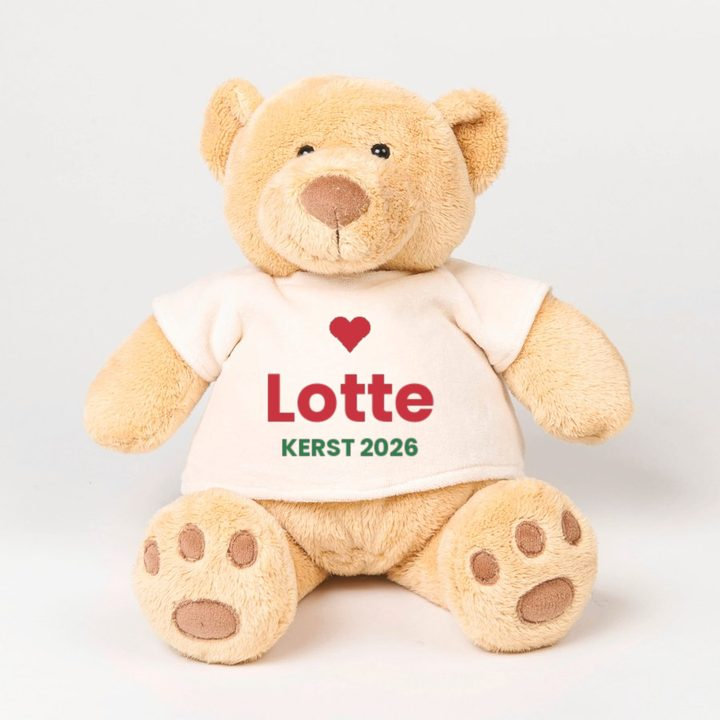
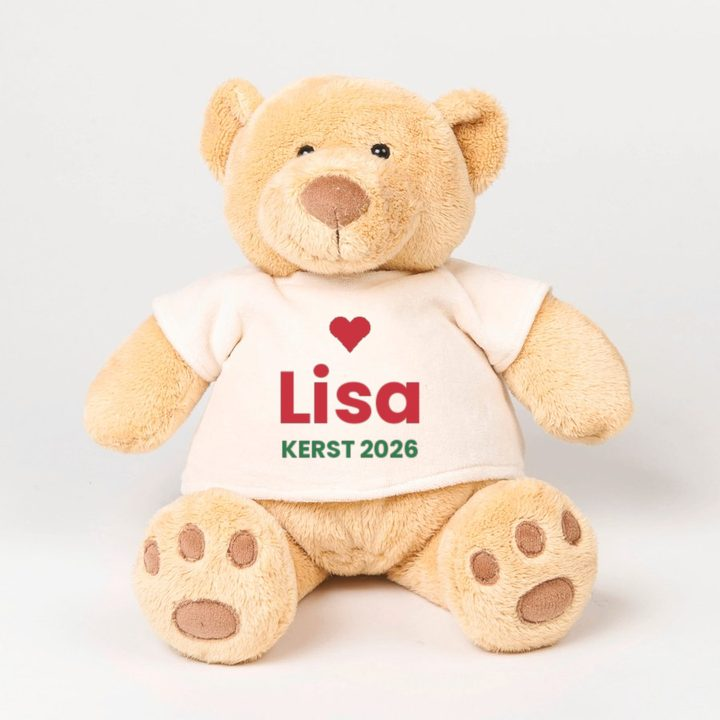
Verzenddeadline (bestel vóór 8/12, verzonden ten laatste 10/12) en beer met 'Lisa'
Claude-Session: https://claude.ai/code/session_01FVjbuViTw3veqwqudahqj7

Changed region(s): [[0.3667, 0.4889, 0.6111, 0.6417]]

diff --git a/shop.html b/shop.html
@@ -49,7 +49,7 @@
           <span class="cart-total-label">Totaal</span>
           <span class="cart-total-amount" id="cartTotal">€ 0</span>
         </div>
-        <p class="cart-note">🎄 Gratis afhalen op de kerstmarkt van Landen of verzending (€ 7) — je kiest bij het afrekenen.</p>
+        <p class="cart-note">🎄 Gratis afhalen op de kerstmarkt van Landen of verzending (€ 7). Verzenden: bestel vóór 8 december.</p>
         <button class="btn-checkout" id="checkoutBtn" disabled>Afrekenen →</button>
       </div>
     </div>
@@ -67,7 +67,7 @@
       <div>
         <p class="section-label" style="color:#ffd970">Kerstmarkt Landen</p>
         <h2>Bestel nu, haal af in onze chalet</h2>
-        <p>Bestel je kerstshirt of cadeau online en haal het gratis af op de kerstmarkt van Landen. Of laat het verzenden in heel België.</p>
+        <p>Bestel je kerstshirt of cadeau online en haal het gratis af op de kerstmarkt van Landen. Of laat het verzenden in heel België: bestel vóór 8 december, dan verzenden we ten laatste op 10 december.</p>
         <div class="pill-row">
           <span class="pill">🎁 Gratis afhalen</span>
           <span class="pill">✏ Naam erop mogelijk</span>
@@ -101,7 +101,7 @@
         <div id="pdetailOptions"></div>
         <p class="pdetail-hint" id="pdetailHint"></p>
         <button class="pdetail-btn" id="pdetailAddBtn">In winkelwagen</button>
-        <p class="pdetail-pickup" id="pdetailPickup" hidden>🎄 <strong>Gratis afhalen</strong> op de kerstmarkt van Landen (11–13 december) of verzending in België voor € 7.</p>
+        <p class="pdetail-pickup" id="pdetailPickup" hidden>🎄 <strong>Gratis afhalen</strong> op de kerstmarkt van Landen (11–13 december) of verzending in België voor € 7. Bestel vóór 8 december, dan verzenden we je bestelling ten laatste op 10 december.</p>
       </div>
     </div>
   </div>
@@ -267,7 +267,7 @@
         if (p.personalize) {
           const extra = Number(p.personalize.price) ? ` (+ ${euro(p.personalize.price)})` : '';
           opts.push(`<div><p class="opt-label">${esc(p.personalize.label)}${extra} <span>— optioneel</span></p>
-            <input class="pdetail-input" id="pdName" maxlength="${p.personalize.maxLength || 14}" placeholder="Bv. Lotte" value="${esc(sel.personalName)}"></div>`);
+            <input class="pdetail-input" id="pdName" maxlength="${p.personalize.maxLength || 14}" placeholder="Bv. Lisa" value="${esc(sel.personalName)}"></div>`);
         }
         const box = document.getElementById('pdetailOptions');
         box.style.cssText = 'display:flex;flex-direction:column;gap:1rem';

diff --git a/kerstmarkt.html b/kerstmarkt.html
@@ -49,7 +49,7 @@
           <span class="cart-total-label">Totaal</span>
           <span class="cart-total-amount" id="cartTotal">€ 0</span>
         </div>
-        <p class="cart-note">🎄 Gratis afhalen op de kerstmarkt van Landen of verzending (€ 7) — je kiest bij het afrekenen.</p>
+        <p class="cart-note">🎄 Gratis afhalen op de kerstmarkt van Landen of verzending (€ 7). Verzenden: bestel vóór 8 december.</p>
         <button class="btn-checkout" id="checkoutBtn" disabled>Afrekenen →</button>
       </div>
     </div>
@@ -141,7 +141,7 @@
       <div class="faq-item"><button class="faq-q">Wanneer kan ik mijn bestelling afhalen?</button><div class="faq-a">Op 11, 12 en 13 december tijdens de openingsuren van de kerstmarkt van Landen. We sturen je een mail zodra je bestelling klaarligt.</div></div>
       <div class="faq-item"><button class="faq-q">Kan ik ook gewoon ter plaatse kopen?</button><div class="faq-a">Zeker! In de chalet betaal je met Bancontact, kaart of cash. Wil je zeker zijn van je maat en kleur, bestel dan vooraf.</div></div>
       <div class="faq-item"><button class="faq-q">Kan ik er een naam op laten zetten?</button><div class="faq-a">Ja, voor € 5 extra drukken we een naam op je shirt, hoodie, trui of schort. Op het shirtje van de beer is de naam inbegrepen.</div></div>
-      <div class="faq-item"><button class="faq-q">Ik kan niet naar de kerstmarkt komen. Wat nu?</button><div class="faq-a">Kies bij het afrekenen voor verzending: we sturen je bestelling op in heel België voor € 7.</div></div>
+      <div class="faq-item"><button class="faq-q">Ik kan niet naar de kerstmarkt komen. Wat nu?</button><div class="faq-a">Kies bij het afrekenen voor verzending: we sturen je bestelling op in heel België voor € 7. Bestel vóór 8 december, dan verzenden we je bestelling ten laatste op 10 december.</div></div>
       <div class="faq-item"><button class="faq-q">Welke maat moet ik nemen?</button><div class="faq-a">Onze T-shirts, hoodies en truien hebben een normale pasvorm. Twijfel je, neem dan een maat groter. Ter plaatse kan je passen.</div></div>
     </div>
   </section>

diff --git a/index.html b/index.html
@@ -49,7 +49,7 @@
           <span class="cart-total-label">Totaal</span>
           <span class="cart-total-amount" id="cartTotal">€ 0</span>
         </div>
-        <p class="cart-note">🎄 Gratis afhalen op de kerstmarkt van Landen of verzending (€ 7) — je kiest bij het afrekenen.</p>
+        <p class="cart-note">🎄 Gratis afhalen op de kerstmarkt van Landen of verzending (€ 7). Verzenden: bestel vóór 8 december.</p>
         <button class="btn-checkout" id="checkoutBtn" disabled>Afrekenen →</button>
       </div>
     </div>
@@ -140,7 +140,7 @@
     <div style="max-width:760px;margin:0 auto">
       <p class="section-label">Veelgestelde vragen</p>
       <h2 class="section-title">Goed om te <em>weten</em></h2>
-      <div class="faq-item"><button class="faq-q">Kan ik afhalen of laten verzenden?</button><div class="faq-a">Allebei. Tijdens de kerstmarkt van Landen (11–13 december) haal je gratis af in onze chalet. Verzending in België kost € 7. Je kiest bij het afrekenen.</div></div>
+      <div class="faq-item"><button class="faq-q">Kan ik afhalen of laten verzenden?</button><div class="faq-a">Allebei. Tijdens de kerstmarkt van Landen (11–13 december) haal je gratis af in onze chalet. Verzending in België kost € 7: bestel vóór 8 december, dan verzenden we je bestelling ten laatste op 10 december. Je kiest bij het afrekenen.</div></div>
       <div class="faq-item"><button class="faq-q">Hoe betaal ik?</button><div class="faq-a">Veilig online via Stripe, met Bancontact of kaart.</div></div>
       <div class="faq-item"><button class="faq-q">Kan ik er een naam op laten zetten?</button><div class="faq-a">Ja. Bij de kerstcollectie kies je “Naam erop” voor € 5 extra.</div></div>
       <div class="faq-item"><button class="faq-q">Klopt de maatvoering?</button><div class="faq-a">We werken met standaard Europese maten in een normale pasvorm. Bij twijfel neem je best een maat groter.</div></div>

diff --git a/voorwaarden.html b/voorwaarden.html
@@ -49,7 +49,7 @@
           <span class="cart-total-label">Totaal</span>
           <span class="cart-total-amount" id="cartTotal">€ 0</span>
         </div>
-        <p class="cart-note">🎄 Gratis afhalen op de kerstmarkt van Landen of verzending (€ 7) — je kiest bij het afrekenen.</p>
+        <p class="cart-note">🎄 Gratis afhalen op de kerstmarkt van Landen of verzending (€ 7). Verzenden: bestel vóór 8 december.</p>
         <button class="btn-checkout" id="checkoutBtn" disabled>Afrekenen →</button>
       </div>
     </div>
@@ -167,7 +167,7 @@
     <ul>
       <li>We verzenden alleen naar adressen in België.</li>
       <li>We drukken je bestelling na ontvangst van de betaling. Gewoonlijk vertrekt je pakje binnen 3 tot 5 werkdagen; bij drukte (zoals in december) kan dat langer duren. We laten je weten als het langer duurt dan verwacht. De uiterste leveringstermijn is 30 dagen na je bestelling.</li>
-      <li>Wil je je bestelling vóór Kerstmis? Bestel dan best vóór 17 december. We doen ons best, maar kunnen een levering vóór een bepaalde datum alleen garanderen als we dat uitdrukkelijk bevestigd hebben.</li>
+      <li><strong>Kerstperiode 2026:</strong> bestel je met verzending vóór 8 december, dan verzenden we je bestelling ten laatste op 10 december. Voor bestellingen na 8 december kunnen we een levering vóór Kerstmis niet garanderen.</li>
       <li>Het risico op verlies of beschadiging gaat op jou over op het moment dat jij (of iemand die jij aanwijst) het pakje ontvangt.</li>
       <li>Controleer je pakje bij ontvangst. Is het beschadigd of klopt de inhoud niet? Meld het ons zo snel mogelijk, liefst binnen 7 dagen, met foto's. Zo kunnen we het snel oplossen.</li>
       <li>Komt een pakje bij ons terug omdat het adres fout was of het niet werd afgehaald, dan nemen we contact op. Een nieuwe verzending kan dan opnieuw verzendkosten kosten.</li>

diff --git a/checkout.html b/checkout.html
@@ -49,7 +49,7 @@
           <span class="cart-total-label">Totaal</span>
           <span class="cart-total-amount" id="cartTotal">€ 0</span>
         </div>
-        <p class="cart-note">🎄 Gratis afhalen op de kerstmarkt van Landen of verzending (€ 7) — je kiest bij het afrekenen.</p>
+        <p class="cart-note">🎄 Gratis afhalen op de kerstmarkt van Landen of verzending (€ 7). Verzenden: bestel vóór 8 december.</p>
         <button class="btn-checkout" id="checkoutBtn" disabled>Afrekenen →</button>
       </div>
     </div>
@@ -130,7 +130,7 @@
           <input type="radio" name="levering" value="verzending" />
           <div class="co-option-body">
             <div class="co-option-title">Verzending in België <b>€ 7</b></div>
-            <div class="co-option-sub">We maken je bestelling en sturen ze op met de post.</div>
+            <div class="co-option-sub">We maken je bestelling en sturen ze op met de post. <strong style="color:var(--white)">Bestel vóór 8 december, dan verzenden we je bestelling ten laatste op 10 december.</strong></div>
           </div>
         </label>
       </div>

diff --git a/account.html b/account.html
@@ -178,7 +178,7 @@
           <span class="cart-total-label">Subtotaal</span>
           <span class="cart-total-amount" id="cartTotal">€ 0</span>
         </div>
-        <p class="cart-note">🎄 Gratis afhalen op de kerstmarkt van Landen of verzending (€ 7) — je kiest bij het afrekenen.</p>
+        <p class="cart-note">🎄 Gratis afhalen op de kerstmarkt van Landen of verzending (€ 7). Verzenden: bestel vóór 8 december.</p>
         <button class="btn-checkout" id="checkoutBtn" disabled>Afrekenen →</button>
       </div>
     </div>

diff --git a/mijn-bestellingen.html b/mijn-bestellingen.html
@@ -159,7 +159,7 @@
           <span class="cart-total-label">Subtotaal</span>
           <span class="cart-total-amount" id="cartTotal">€ 0</span>
         </div>
-        <p class="cart-note">🎄 Gratis afhalen op de kerstmarkt van Landen of verzending (€ 7) — je kiest bij het afrekenen.</p>
+        <p class="cart-note">🎄 Gratis afhalen op de kerstmarkt van Landen of verzending (€ 7). Verzenden: bestel vóór 8 december.</p>
         <button class="btn-checkout" id="checkoutBtn" disabled>Afrekenen →</button>
       </div>
     </div>

diff --git a/burenfeest.html b/burenfeest.html
@@ -322,7 +322,7 @@
           <span class="cart-total-label">Totaal</span>
           <span class="cart-total-amount" id="cartTotal">€ 0</span>
         </div>
-        <p class="cart-note">🎄 Gratis afhalen op de kerstmarkt van Landen of verzending (€ 7) — je kiest bij het afrekenen.</p>
+        <p class="cart-note">🎄 Gratis afhalen op de kerstmarkt van Landen of verzending (€ 7). Verzenden: bestel vóór 8 december.</p>
         <button class="btn-checkout" id="checkoutBtn" disabled>Afrekenen →</button>
       </div>
     </div>

diff --git a/designer.html b/designer.html
@@ -228,7 +228,7 @@
           <span class="cart-total-label">Totaal</span>
           <span class="cart-total-amount" id="cartTotal">€ 0</span>
         </div>
-        <p class="cart-note">🎄 Gratis afhalen op de kerstmarkt van Landen of verzending (€ 7) — je kiest bij het afrekenen.</p>
+        <p class="cart-note">🎄 Gratis afhalen op de kerstmarkt van Landen of verzending (€ 7). Verzenden: bestel vóór 8 december.</p>
         <button class="btn-checkout" id="checkoutBtn" disabled>Afrekenen →</button>
       </div>
     </div>

diff --git a/about.html b/about.html
@@ -49,7 +49,7 @@
           <span class="cart-total-label">Totaal</span>
           <span class="cart-total-amount" id="cartTotal">€ 0</span>
         </div>
-        <p class="cart-note">🎄 Gratis afhalen op de kerstmarkt van Landen of verzending (€ 7) — je kiest bij het afrekenen.</p>
+        <p class="cart-note">🎄 Gratis afhalen op de kerstmarkt van Landen of verzending (€ 7). Verzenden: bestel vóór 8 december.</p>
         <button class="btn-checkout" id="checkoutBtn" disabled>Afrekenen →</button>
       </div>
     </div>

diff --git a/contact.html b/contact.html
@@ -49,7 +49,7 @@
           <span class="cart-total-label">Totaal</span>
           <span class="cart-total-amount" id="cartTotal">€ 0</span>
         </div>
-        <p class="cart-note">🎄 Gratis afhalen op de kerstmarkt van Landen of verzending (€ 7) — je kiest bij het afrekenen.</p>
+        <p class="cart-note">🎄 Gratis afhalen op de kerstmarkt van Landen of verzending (€ 7). Verzenden: bestel vóór 8 december.</p>
         <button class="btn-checkout" id="checkoutBtn" disabled>Afrekenen →</button>
       </div>
     </div>

diff --git a/privacy.html b/privacy.html
@@ -49,7 +49,7 @@
           <span class="cart-total-label">Totaal</span>
           <span class="cart-total-amount" id="cartTotal">€ 0</span>
         </div>
-        <p class="cart-note">🎄 Gratis afhalen op de kerstmarkt van Landen of verzending (€ 7) — je kiest bij het afrekenen.</p>
+        <p class="cart-note">🎄 Gratis afhalen op de kerstmarkt van Landen of verzending (€ 7). Verzenden: bestel vóór 8 december.</p>
         <button class="btn-checkout" id="checkoutBtn" disabled>Afrekenen →</button>
       </div>
     </div>
